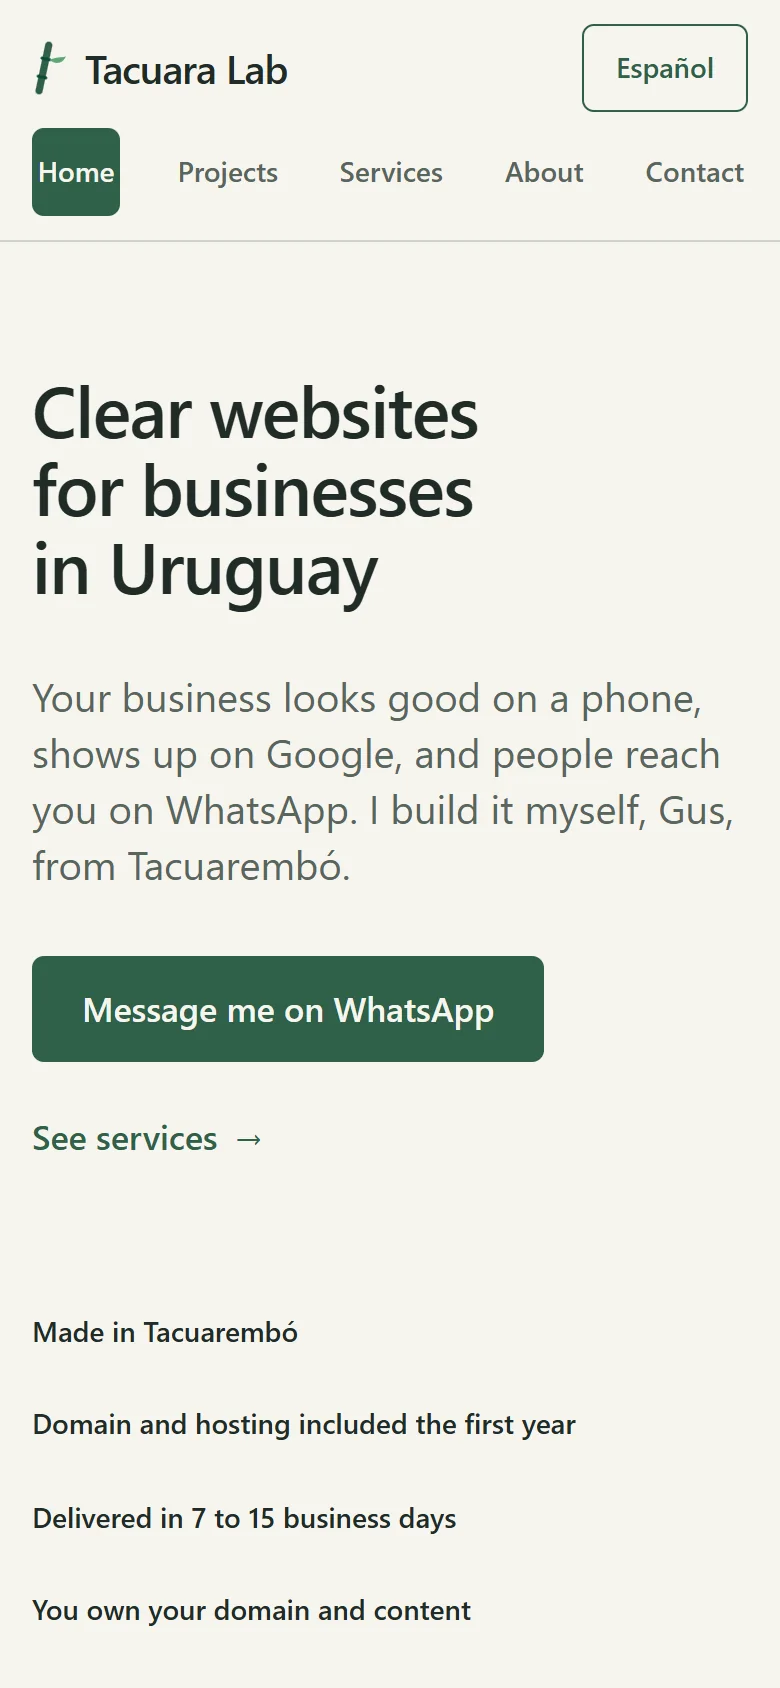
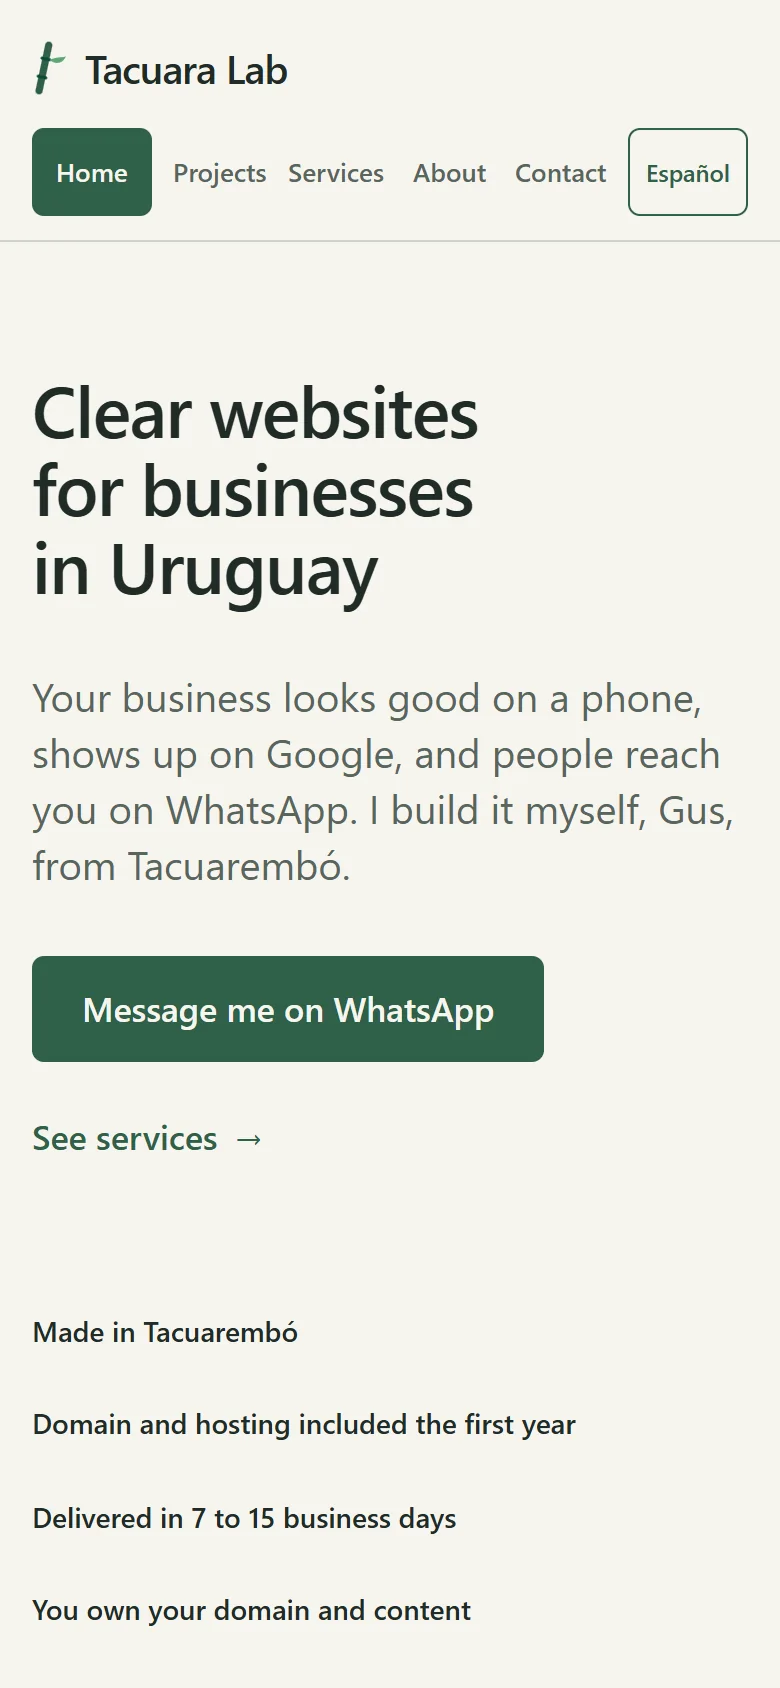
Polish project spacing, navigation and covers; preserve screenshot capture

diff --git a/src/lib/projects.ts b/src/lib/projects.ts
@@ -8,7 +8,12 @@ import servicesEs from '../assets/tacuara-lab/tacuara-lab-services-es.webp';
 import homeEn from '../assets/tacuara-lab/tacuara-lab-home-en.webp';
 import servicesEn from '../assets/tacuara-lab/tacuara-lab-services-en.webp';
 
+import ceroCover from '../assets/project-covers/cero-yuyo.webp';
+import tacuaraCoverEs from '../assets/project-covers/tacuara-lab-es.webp';
+import tacuaraCoverEn from '../assets/project-covers/tacuara-lab-en.webp';
+
 export interface CaseStudyContent {
+  cover: { src: ImageMetadata; alt: string };
   slug: string;
   title: string;
   description: string;
@@ -63,6 +68,7 @@ export const caseStudies: CaseStudy[] = [
   {
     content: {
       es: {
+        cover: { src: ceroCover, alt: 'Gus con una desmalezadora al hombro, en la foto principal de Cero Yuyo.' },
         slug: 'cero-yuyo',
         title: 'Caso de estudio: Cero Yuyo | Tacuara Lab, Uruguay',
         description: 'Un sitio de una página para Cero Yuyo, mi servicio de corte de pasto en Tacuarembó, Uruguay: trabajos reales y contacto por WhatsApp.',
@@ -89,6 +95,7 @@ export const caseStudies: CaseStudy[] = [
         ],
       },
       en: {
+        cover: { src: ceroCover, alt: 'Gus holding a brush cutter over his shoulder in the Cero Yuyo hero photo.' },
         slug: 'cero-yuyo',
         title: 'Cero Yuyo case study | Tacuara Lab, Uruguay',
         description: 'A one-page site for Cero Yuyo, my lawn care service in Tacuarembó, Uruguay: real jobs and contact through WhatsApp.',
@@ -119,6 +126,7 @@ export const caseStudies: CaseStudy[] = [
   {
     content: {
       es: {
+        cover: { src: tacuaraCoverEs, alt: 'Inicio de Tacuara Lab en español: sitios web claros para negocios de Uruguay.' },
         slug: 'tacuara-lab',
         title: 'Caso de estudio: Tacuara Lab | Diseño web en Uruguay',
         description: 'Cómo hice el sitio de Tacuara Lab en Uruguay: español e inglés, navegación simple en el celular, precios a la vista y contacto directo por WhatsApp.',
@@ -140,6 +148,7 @@ export const caseStudies: CaseStudy[] = [
         buildNote: 'Hecho con Astro y Tailwind, alojado en Cloudflare.',
       },
       en: {
+        cover: { src: tacuaraCoverEn, alt: 'Tacuara Lab homepage in English: clear websites for businesses in Uruguay.' },
         slug: 'tacuara-lab',
         title: 'Tacuara Lab case study | Web design in Uruguay',
         description: 'How I built the Tacuara Lab website in Uruguay: Spanish and English, simple mobile navigation, upfront prices and direct contact through WhatsApp.',

diff --git a/src/styles/global.css b/src/styles/global.css
@@ -33,6 +33,8 @@
   .project-card:hover, .project-card:focus-within { border-color: var(--color-bamboo); }
   main section { margin-top: 0; border-top: 1px solid var(--color-line); padding-block: var(--spacing-home-section); }
   main section p { max-width: 60ch; }
+  main .project-invitation, .case-study section { padding-block: calc(var(--spacing) * 8); }
+  .case-study .project-invitation { padding-bottom: 0; }
   main section.card { border-radius: 0; }
   .eyebrow { color: var(--color-bamboo); text-transform: uppercase; font-size: .8125rem; font-weight: 600; letter-spacing: .08em; margin-bottom: 1rem; }
   .nav-link { @apply inline-flex min-h-11 min-w-11 items-center justify-center px-3 py-2 text-sm font-medium text-muted no-underline; border-radius: 6px; }
@@ -60,10 +62,14 @@
   .contact-details dt { color: var(--color-bamboo); font-size: .8125rem; font-weight: 600; text-transform: uppercase; letter-spacing: .08em; margin-bottom: .5rem; }
   @media (max-width: 47.999rem) {
     .site-nav-list { justify-content: space-between; }
-    .site-nav-list .nav-link { padding-inline: .125rem; white-space: nowrap; }
+    .site-nav-list .nav-link { padding-inline: 0; font-size: .75rem; white-space: nowrap; }
   }
-  @media (max-width: 22.499rem) {
-    .site-nav-list .nav-link { font-size: .8125rem; }
+  @media (max-width: 47.999rem) {
+    .site-nav-list .nav-link[aria-current="page"] { padding-inline: .75rem; }
+    .site-nav-list .language-link { padding-inline: .5rem; font-size: .75rem; }
+  }
+  @media (min-width: 24.375rem) and (max-width: 47.999rem) {
+    .site-nav-list .nav-link, .site-nav-list .language-link { font-size: .8125rem; }
   }
   @media (min-width: 48rem) {
     .home-trust { grid-template-columns: repeat(4, minmax(0, 1fr)); }

diff --git a/PROJECT.md b/PROJECT.md
@@ -24,6 +24,7 @@ Home, Projects (grid + one case study page per project), Services & pricing, Abo
 - Privacy-friendly analytics
 
 ## Status
+- [x] Projects/case study polish (ES/EN), 2026-11-24: tightened image/section/CTA/card-link spacing with existing tokens; active navigation has 12px side padding and all six links fit one row at 360/390px; added three localized 16:9 WebP covers (20,960–42,658 bytes). Committed the portable screenshot/covers capture script, regenerated the four screenshots and documented reruns. Verified npm ci, build and Astro check (zero diagnostics), identical copy/SEO/executable scripts and noindex on all 16 HTML pages, 42 overflow-free layouts at 360/390/1024px, and local mobile Lighthouse ES Projects/Tacuara Lab both 100/100/100/69 (Performance/Accessibility/Best Practices/SEO), CLS 0. INDEXABLE=false; palette and live Worker unchanged.
 - [x] Projects copy and Tacuara Lab case study redesign (ES/EN), 2026-11-24: exact Projects intros/descriptions and shared CTA; four real local Home/Services screenshots at 390×844, scale 2 (WebP, 57,688–68,382 bytes), responsive Astro images, open facts and build note. Cero Yuyo structure, palette, DESIGN.md and other SEO unchanged; INDEXABLE=false. Verified npm ci, npm run build and npx astro check (zero diagnostics), noindex and unchanged executable scripts on all 16 HTML pages, and no overflow on all 14 localized routes at 390/1024px. Local Lighthouse mobile ES Tacuara Lab 100/100/100/69 and Projects 100/100/100/66 (Performance/Accessibility/Best Practices/SEO), CLS 0, no run warnings.
 - [x] SEO + structured data done (2026-11-24); `INDEXABLE` defaults to `false`, flip to `true` in Phase 4 only.
 - [x] Header logo mark and favicon set (ES/EN), 2026-11-23: added the supplied 28px inline cane SVG with an 8px gap beside real HTML "Tacuara Lab" text in the shared localized Home link. The mark is decorative (`aria-hidden="true"`, no title), preserves the supplied geometry/viewBox and uses approved Bamboo with the specified fallback artwork colors. Added the separate rounded-badge `public/favicon.svg` using Bamboo/Paper and the supplied leaf fallback; generated and committed the 32×32 PNG and 180×180 Apple touch icon once with existing sharp, with all three linked from the shared head. Header navigation now has 44px minimum width as well as height, retaining its compact brand/language row and single nav row. DESIGN.md documents the decorative mark, HTML brand text, palette mapping and favicon rule. No new dependencies, JavaScript, build steps, fonts, copy or social preview; noindex/robots/sitemap configuration unchanged. Verified `npm ci`, `npm run build` and `npm run check` (zero errors/warnings/hints); all fifteen generated index routes, `/404.html` and all three icon files return HTTP 200 from the built preview, with correct icon content types and bytes. All fourteen localized routes pass at 320/360/390/430/768px (70 layouts): no horizontal overflow, one navigation row, 44×44px header tap targets and a vertically centered 28px mark. Checked localized accessible link names/destinations, keyboard focus and navigation without JavaScript; reviewed phone/tablet header screenshots and icon outputs. Local Lighthouse mobile ES and EN Home both scored 100/100/100/100 (Performance/Accessibility/Best Practices/SEO), CLS 0, no run warnings.
@@ -72,6 +73,7 @@ Home, Projects (grid + one case study page per project), Services & pricing, Abo
 - [x] English package names: Presence / Full site / Custom. Verified with `npm ci`, `npm run build`, and `npx astro check` (zero errors); both service routes return HTTP 200, no Spanish package names appear on `/en/services/`, and the Spanish source remains unchanged.
 - [ ] Phase 3: features (form, WhatsApp, estimator, ES/EN, SEO, analytics)
 - [ ] Phase 4: launch checklist
+  - Regenerate case study screenshots after pricing/copy is final (scripts/capture-case-study-screenshots.mjs).
 
 ## Rules for agents
 Read this file first. Update Status when you finish something. Commit after each task.

diff --git a/README.md b/README.md
@@ -21,6 +21,10 @@ npm run preview
 `@emnapi/core` is explicitly installed for the WebAssembly runtime used by
 Astro's checker on Windows.
 
+After pricing or copy changes, run `npm ci` and `npm run build`; prepare the capture tool with `npm exec --yes --package=playwright -- playwright --version` (Google Chrome must be installed).
+Run `node scripts/capture-case-study-screenshots.mjs` to regenerate the four 390×844 @2x screenshots and three card covers from the local build; set `CHROME_PATH` or `PLAYWRIGHT_MODULE` if needed.
+Run `npm run build` again and review both languages before committing the updated WebP files in `src/assets/tacuara-lab/` and `src/assets/project-covers/`.
+
 `INDEXABLE` in `src/data/site.ts` defaults to `false` (noindex, blocked robots, no sitemap); flip to `true` in Phase 4 only to allow indexing and emit `/sitemap.xml` with ES/EN alternates.
 
 ## Routes
